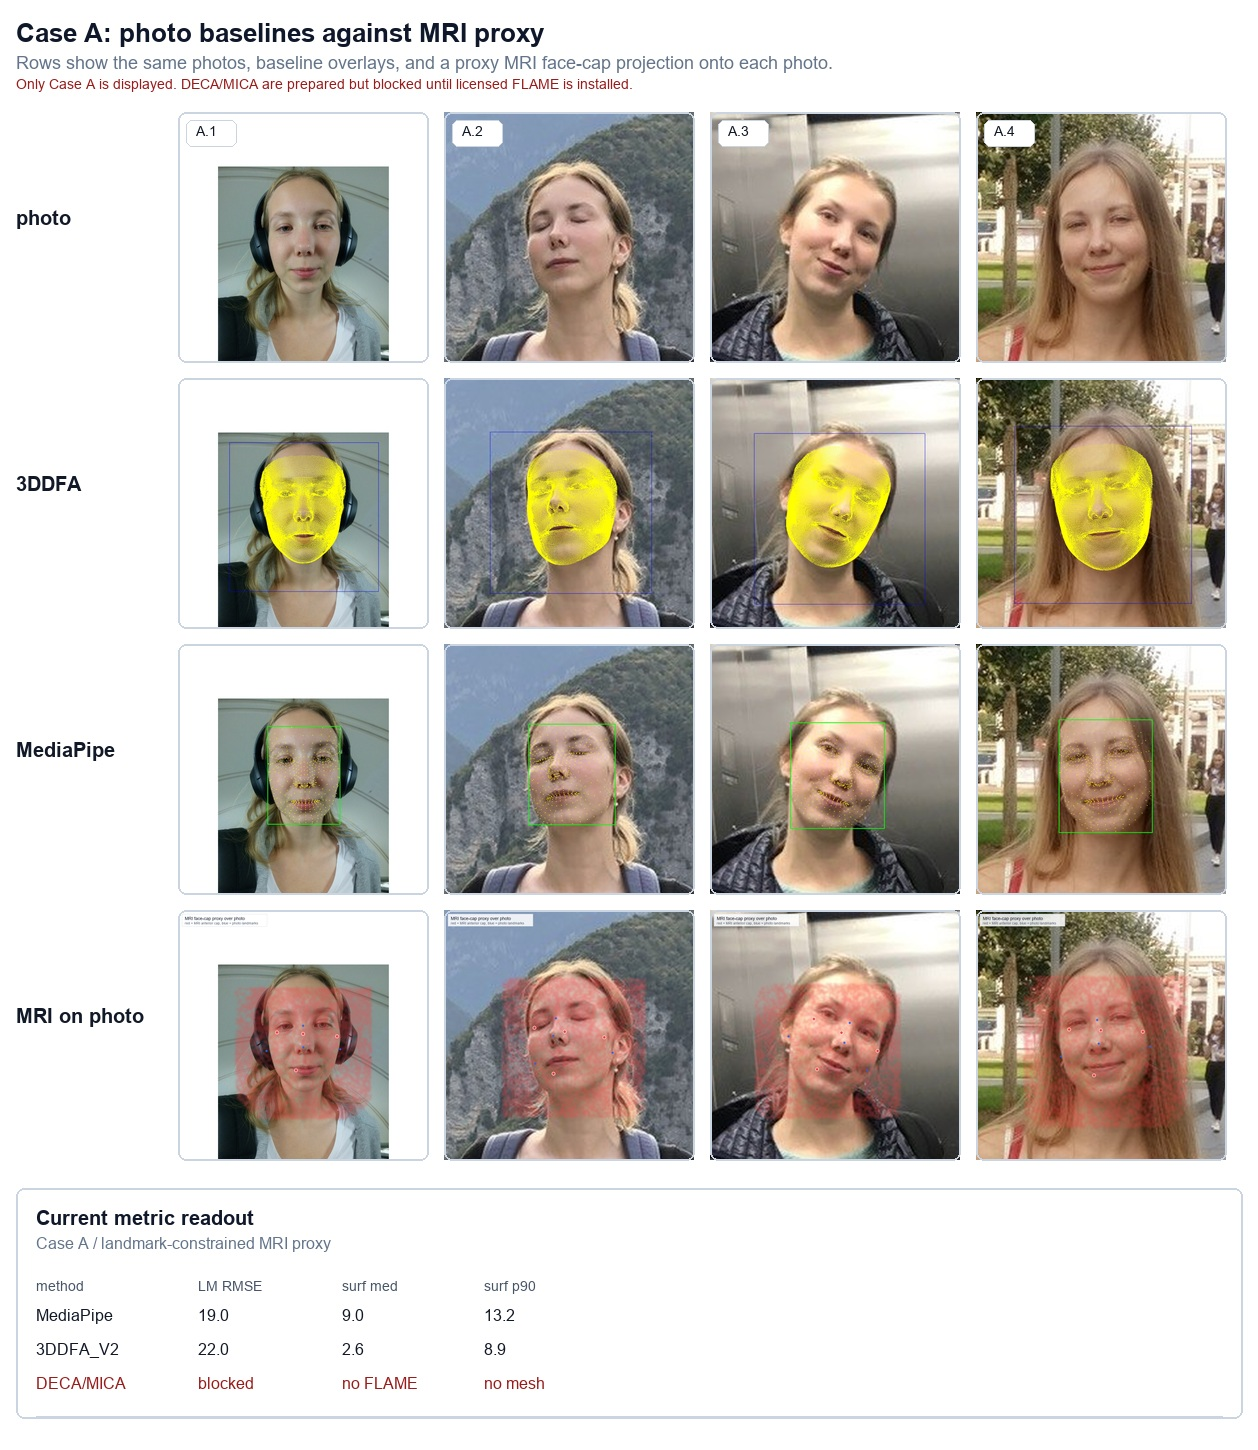
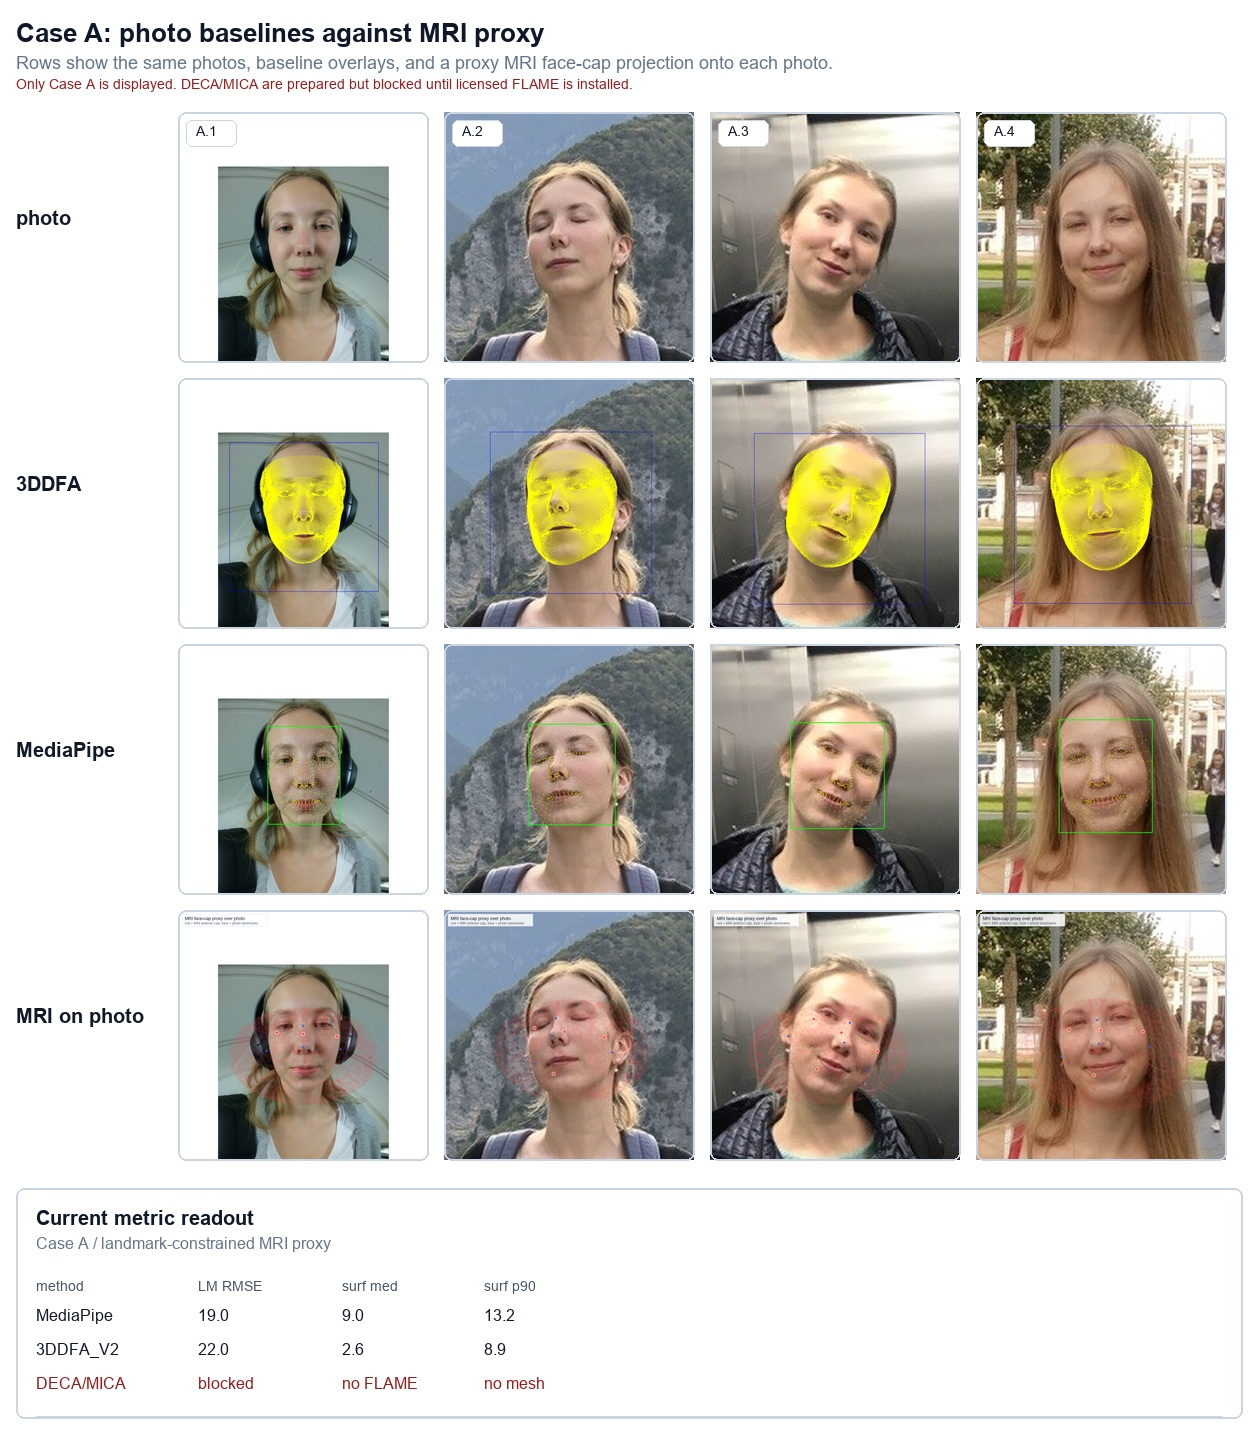
Clip MRI photo overlay to face ROI

diff --git a/scripts/photo_mri_avatar/make_case_a_visual_mri_comparison.py b/scripts/photo_mri_avatar/make_case_a_visual_mri_comparison.py
@@ -18,7 +18,7 @@ from typing import Iterable
 
 import numpy as np
 import trimesh
-from PIL import Image, ImageDraw, ImageFilter, ImageFont, ImageOps
+from PIL import Image, ImageChops, ImageDraw, ImageFilter, ImageFont, ImageOps
 
 
 LANDMARKS = ["nose_tip", "chin", "brow_center", "left_cheek", "right_cheek"]
@@ -106,6 +106,27 @@ def apply_2d(points: np.ndarray, r: np.ndarray, scale: float, t: np.ndarray) -> 
     return (scale * (r @ points.T)).T + t
 
 
+def photo_face_roi(photo_lm: dict[str, np.ndarray], image_size: tuple[int, int]) -> tuple[Image.Image, tuple[float, float, float, float]]:
+    image_w, image_h = image_size
+    left_cheek = photo_lm["left_cheek"]
+    right_cheek = photo_lm["right_cheek"]
+    brow = photo_lm["brow_center"]
+    chin = photo_lm["chin"]
+
+    cheek_width = max(abs(float(right_cheek[0] - left_cheek[0])), 1.0)
+    face_height = max(abs(float(chin[1] - brow[1])), cheek_width * 1.12, 1.0)
+    center_x = float((left_cheek[0] + right_cheek[0]) / 2.0)
+    roi_w = max(cheek_width * 2.05, face_height * 0.78)
+    left = max(-20.0, center_x - roi_w / 2.0)
+    right = min(float(image_w) + 20.0, center_x + roi_w / 2.0)
+    top = max(-20.0, float(brow[1]) - 0.22 * face_height)
+    bottom = min(float(image_h) + 20.0, float(chin[1]) + 0.12 * face_height)
+
+    roi = Image.new("L", image_size, 0)
+    ImageDraw.Draw(roi).ellipse((left, top, right, bottom), fill=255)
+    return roi, (left, right, top, bottom)
+
+
 def mri_proxy_landmarks(mri_points: np.ndarray) -> dict[str, np.ndarray]:
     x, y, z = mri_points[:, 0], mri_points[:, 1], mri_points[:, 2]
     x_center = np.median(x)
@@ -175,6 +196,7 @@ def draw_mri_on_photo(
     base = ImageOps.exif_transpose(Image.open(crop_path)).convert("RGB")
     image_w, image_h = base.size
     photo_lm = photo_landmarks_2d(ply_path, bfm_ids, image_h)
+    roi_mask, roi_bounds = photo_face_roi(photo_lm, base.size)
     mri_lm = mri_landmarks_2d(mri_landmarks, swap_lr=True)
     r, scale, t = similarity_2d(
         np.vstack([mri_lm[name] for name in FIT_LANDMARKS]),
@@ -182,30 +204,21 @@ def draw_mri_on_photo(
     )
 
     cap_photo = apply_2d(mri_front_cap_2d(mri_points), r, scale, t)
-    lm_bounds = np.vstack([photo_lm[name] for name in LANDMARKS])
-    lm_min = lm_bounds.min(axis=0)
-    lm_max = lm_bounds.max(axis=0)
-    lm_span = np.maximum(lm_max - lm_min, np.array([1.0, 1.0]))
-    face_bounds = (
-        lm_min[0] - 0.42 * lm_span[0],
-        lm_max[0] + 0.42 * lm_span[0],
-        lm_min[1] - 0.55 * lm_span[1],
-        lm_max[1] + 0.35 * lm_span[1],
-    )
+    left, right, top, bottom = roi_bounds
     cap_photo = cap_photo[
-        (cap_photo[:, 0] >= max(-40, face_bounds[0]))
-        & (cap_photo[:, 0] <= min(image_w + 40, face_bounds[1]))
-        & (cap_photo[:, 1] >= max(-40, face_bounds[2]))
-        & (cap_photo[:, 1] <= min(image_h + 40, face_bounds[3]))
+        (cap_photo[:, 0] >= left)
+        & (cap_photo[:, 0] <= right)
+        & (cap_photo[:, 1] >= top)
+        & (cap_photo[:, 1] <= bottom)
     ]
     lm_photo = {name: apply_2d(mri_lm[name].reshape(1, 2), r, scale, t)[0] for name in LANDMARKS}
 
     mask = Image.new("L", base.size, 0)
     draw_mask = ImageDraw.Draw(mask)
     for x, y in cap_photo:
-        draw_mask.ellipse((x - 3, y - 3, x + 3, y + 3), fill=42)
-    mask = mask.filter(ImageFilter.GaussianBlur(4))
-    mask = mask.point(lambda v: min(135, int(v * 2.6)))
+        draw_mask.ellipse((x - 2, y - 2, x + 2, y + 2), fill=38)
+    mask = ImageChops.multiply(mask.filter(ImageFilter.GaussianBlur(3)), roi_mask)
+    mask = mask.point(lambda v: min(105, int(v * 2.2)))
 
     color = Image.new("RGB", base.size, "#ef4444")
     blended = Image.composite(color, base, mask)
